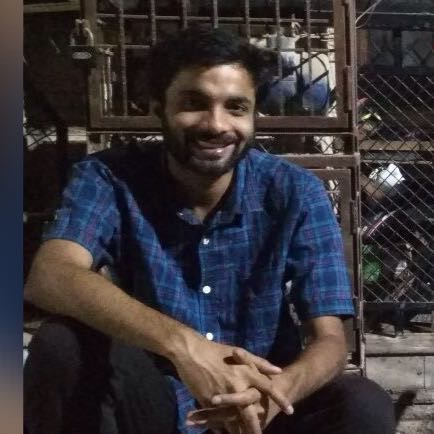
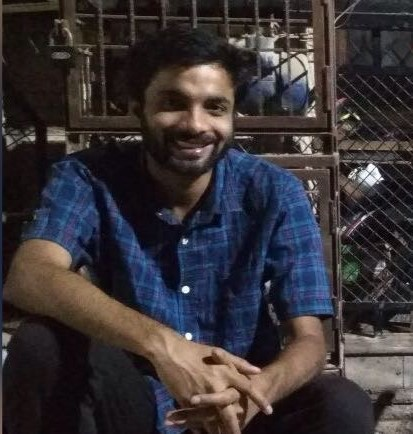
Updating

diff --git a/index.html b/index.html
@@ -65,14 +65,14 @@
   <!--/ Nav End /-->
 
   <!--/ Intro Skew Star /-->
-  <div id="home" class="intro route bg-image" style="background-image: url(img/intro-bg.jpeg)">
+  <div id="home" class="intro route bg-image" style="background-image: url(img/intro-bg.jpg)">
     <div class="overlay-itro"></div>
     <div class="intro-content display-table">
       <div class="table-cell">
         <div class="container">
           <!--<p class="display-6 color-d">Hello, world!</p>-->
           <h1 class="intro-title mb-4">I am Ankit Jaiswal</h1>
-          <p class="intro-subtitle"><span class="text-slider-items">Test Engineer,IOT Enthusuiast,Linux Admin</span><strong class="text-slider"></strong></p>
+          <p class="intro-subtitle"><span class="text-slider-items">Test Engineer, Automation Engineer, IOT Enthusuiast</span><strong class="text-slider"></strong></p>
           <!-- <p class="pt-3"><a class="btn btn-primary btn js-scroll px-4" href="#about" role="button">Learn More</a></p> -->
         </div>
       </div>
@@ -96,7 +96,7 @@
                   <div class="col-sm-6 col-md-7">
                     <div class="about-info">
                       <p><span class="title-s">Name: </span> <span>Ankit Jaiswal</span></p>
-                      <p><span class="title-s">Profile: </span> <span>Test Engineer</span></p>
+                      <p><span class="title-s">Profile: </span> <span>Senior Test Engineer</span></p>
                       <p><span class="title-s">Email: </span> <span>jaiswal.ankit200@gmail.com</span></p>
                       <p><span class="title-s">Phone: </span> <span>+91 9540829978</span></p>
                     </div>
@@ -104,22 +104,22 @@
                 </div>
                 <div class="skill-mf">
                   <p class="title-s">Skill</p>
-                  <span>HTML</span> <span class="pull-right">85%</span>
+                  <span>C#</span> <span class="pull-right">75%</span>
                   <div class="progress">
                     <div class="progress-bar" role="progressbar" style="width: 85%;" aria-valuenow="85" aria-valuemin="0"
                       aria-valuemax="100"></div>
                   </div>
-                  <span>CSS3</span> <span class="pull-right">75%</span>
+                  <span>Python</span> <span class="pull-right">75%</span>
                   <div class="progress">
                     <div class="progress-bar" role="progressbar" style="width: 75%" aria-valuenow="75" aria-valuemin="0"
                       aria-valuemax="100"></div>
                   </div>
-                  <span>PHP</span> <span class="pull-right">50%</span>
+                  <span>Azure/Jenkins</span> <span class="pull-right">60%</span>
                   <div class="progress">
                     <div class="progress-bar" role="progressbar" style="width: 50%" aria-valuenow="50" aria-valuemin="0"
                       aria-valuemax="100"></div>
                   </div>
-                  <span>JAVASCRIPT</span> <span class="pull-right">90%</span>
+                  <span>Specflow</span> <span class="pull-right">90%</span>
                   <div class="progress">
                     <div class="progress-bar" role="progressbar" style="width: 90%" aria-valuenow="90" aria-valuemin="0"
                       aria-valuemax="100"></div>
@@ -652,7 +652,7 @@
                 <div class="col-md-6">
                   <div class="title-box-2">
                     <h5 class="title-left">
-                      Send Message Us
+                      Send Message
                     </h5>
                   </div>
                   <div>
@@ -702,18 +702,18 @@
                       Get in touch with me. I am available at these places.
                     </p>
                     <ul class="list-ico">
-                      <li><span class="ion-ios-location"></span> Zenstays, Konappana Agrahara, Electronic City Phase II
-                        Bengaluru, Karnataka 560100</li>
+                      <li><span class="ion-ios-location"></span> Bangalore, India </li>
                       <li><span class="ion-ios-telephone"></span> +91 954 082 99 78</li>
                       <li><span class="ion-email"></span> jaiswal.ankit2000@gmail.com</li>
                     </ul>
                   </div>
                   <div class="socials">
                     <ul>
-                      <!-- <li><a href=""><span class="ico-circle"><i class="ion-social-facebook"></i></span></a></li> -->
-                      <li><a href=""><span class="ico-circle"><i class="ion-social-instagram"></i></span></a></li>
-                      <li><a href=""><span class="ico-circle"><i class="ion-social-twitter"></i></span></a></li>
-                      <li><a href=""><span class="ico-circle"><i class="ion-social-pinterest"></i></span></a></li>
+                      <!-- <li><a href=""><span class="ico-circle"><i class="ion-social-facebook"></i></span></a></li> 
+                           <li><a href=""><span class="ico-circle"><i class="ion-social-twitter"></i></span></a></li>
+                           <li><a href=""><span class="ico-circle"><i class="ion-social-pinterest"></i></span></a></li> -->
+                      <li><a href="https://www.instagram.com/where_is_ankit/"><span class="ico-circle"><i class="ion-social-instagram"></i></span></a></li>
+                      
                     </ul>
                   </div>
                 </div>
